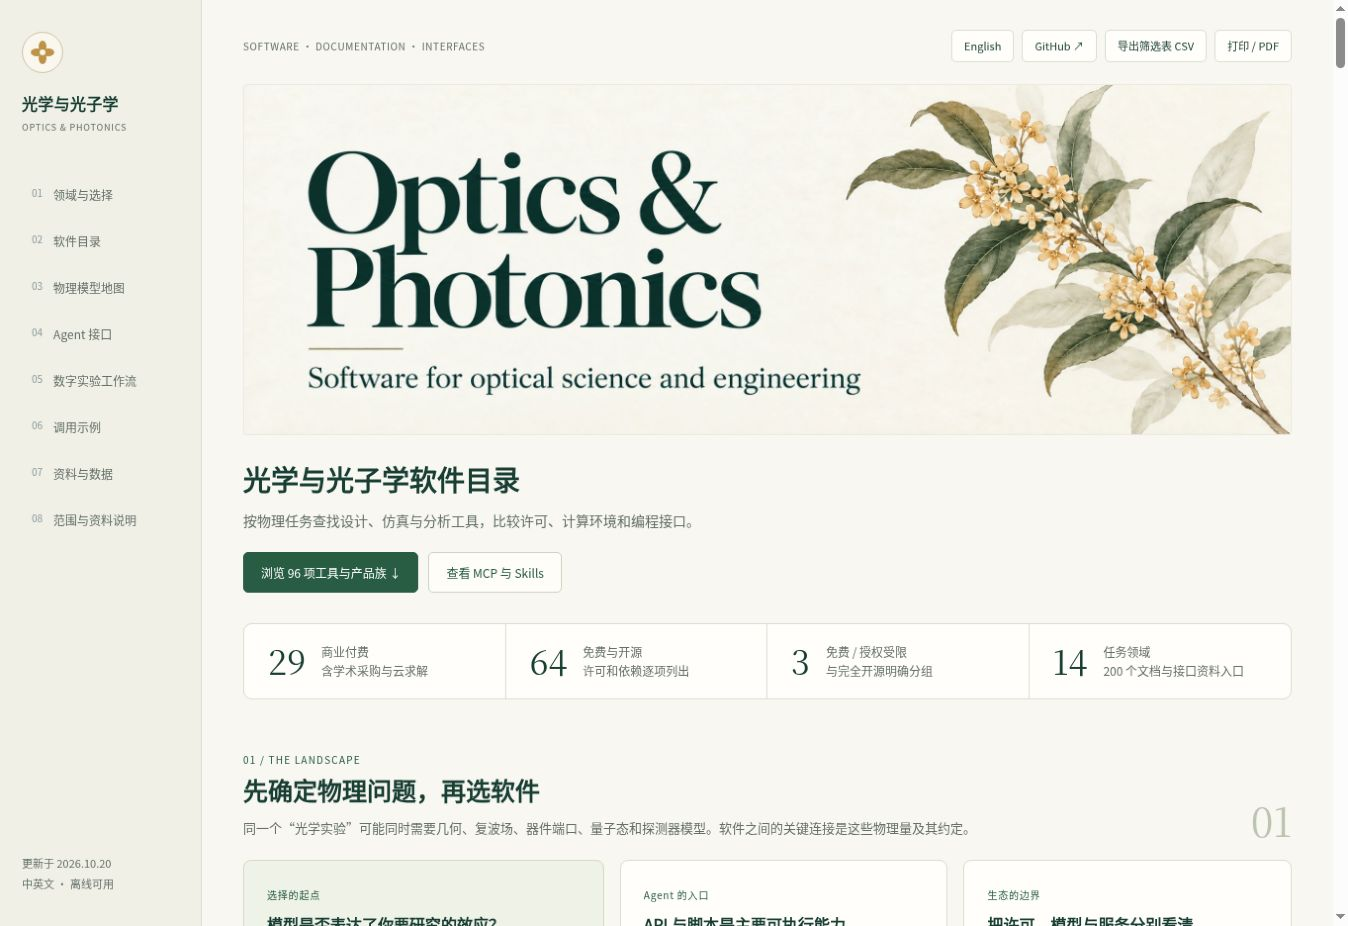
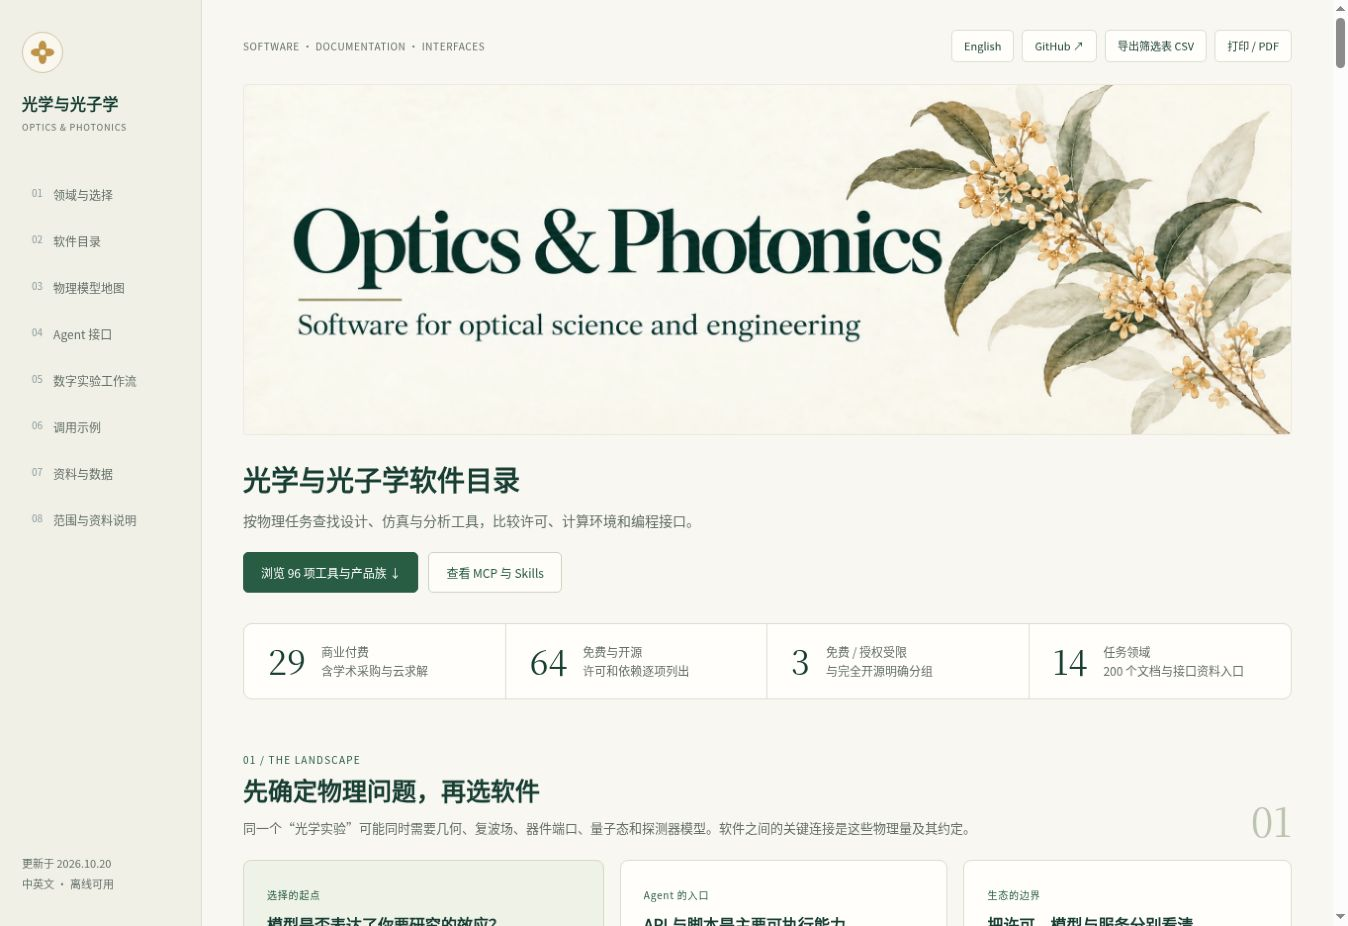
Record four further community pull requests and refresh website preview

Changed region(s): [[0.2181, 0.1512, 0.7166, 0.3629], [0.2181, 0.3931, 0.6543, 0.4233]]

diff --git a/community/submissions/README.md b/community/submissions/README.md
@@ -7,6 +7,13 @@ Submitted on **2026-10-20**. / 提交日期：**2026-10-20**。
 | Awesome Photonics · joamatab | [PR #34](https://github.com/joamatab/awesome_photonics/pull/34) | Open · 待审阅 |
 | Awesome Optics-Photonics · BabarZKhan | [PR #1](https://github.com/BabarZKhan/awesome-optics-photonics/pull/1) | Open · 待审阅 |
 | Awesome Optics · Ly0n | [Resource suggestion #5](https://github.com/Ly0n/awesome-optics/issues/5) | Open · 待回复 |
+| Awesome Inverse Design · QuentinWach | [PR #2](https://github.com/QuentinWach/awesome-inverse-design/pull/2) | Open · 待审阅 |
+| Quantum Optics · LKB | [PR #1](https://github.com/Quantum-Optics-LKB/AwesomeList/pull/1) | Open · 待审阅 |
+| Awesome Photonic Design Automation | [PR #1](https://github.com/zhengqigao/Awesome-PDA/pull/1) | Open · 待审阅 |
+| Waves, Optics and Photonics | [PR #2](https://github.com/zauberresonator/awesome_waves_optics_and_photonics/pull/2) | Open · 待审阅 |
 
 Each submission links the directory and explains its relevance to that community.
 投稿介绍了软件比较、原始资料、双语离线浏览和结构化数据的用途。
+
+The [personal resource collection](https://github.com/Cherish0925/awesome-optics-photonics#software-resource-guides) also includes the directory on its `main` branch.
+个人资源仓库的 `main` 首页已收录目录。
